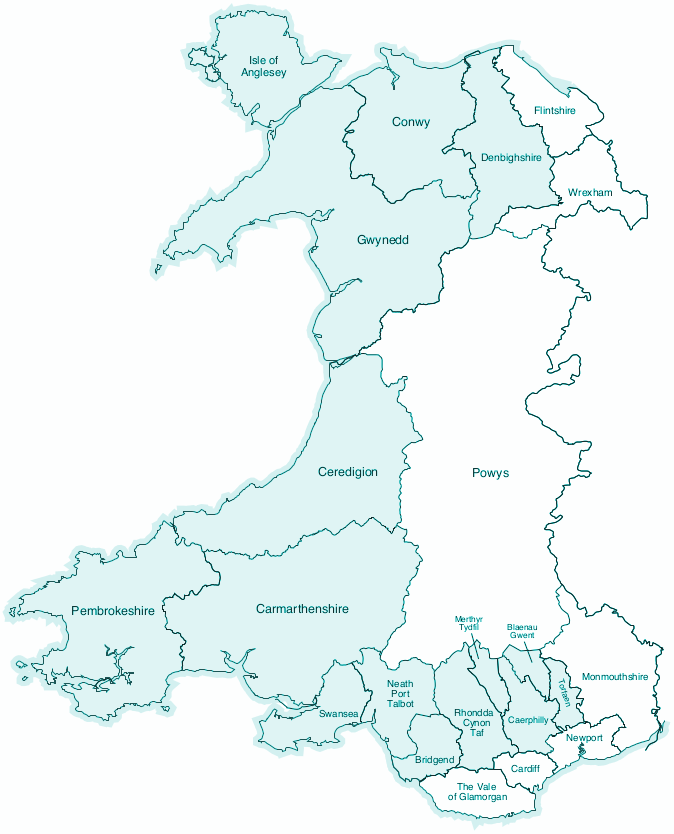
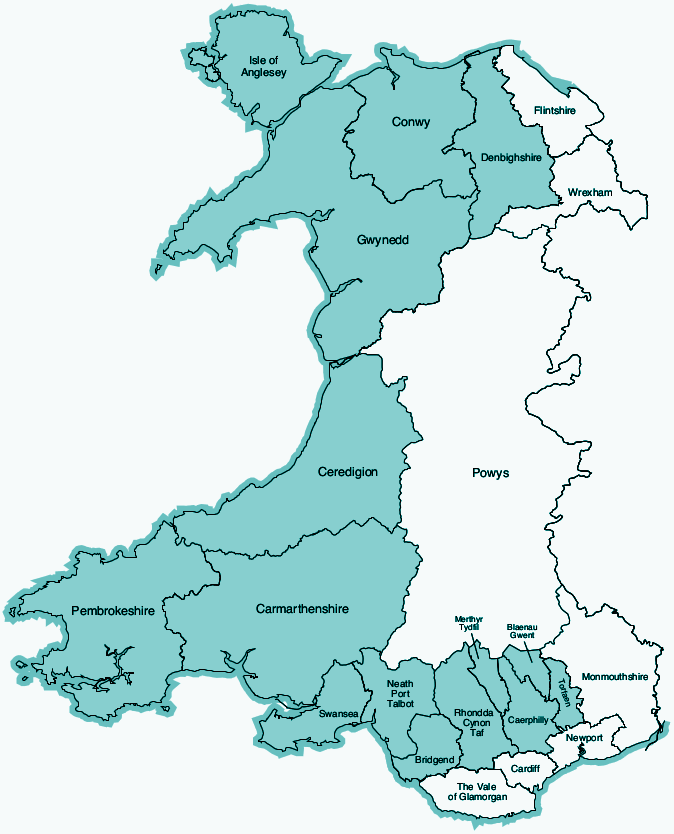
more changes

diff --git a/wipsce2015.tex b/wipsce2015.tex
@@ -24,18 +24,21 @@
 \title{Technocamps: \\[1ex] Advancing Computer Science Education in Wales}
 
 %\title{Technocamps: A Decade of Supporting\\Computer Science Education in Wales}
+% This title is so good I want to reserve it for ToCSE/SIGCSE
 
 \numberofauthors{2}
 \author{
 % 1st. author
 \alignauthor
 Tom Crick\\
+\affaddr{Chair of CAS Wales}\\[1ex]
 \affaddr{Department of Computing}\\
 \affaddr{Cardiff Metropolitan University, UK}\\
 \affaddr{tcrick@cardiffmet.ac.uk}
 % 2nd. author
 \alignauthor
 Faron Moller\\
+\affaddr{Director of Technocamps}\\[1ex]
 \affaddr{Department of Computer Science}\\
 \affaddr{Swansea University, UK}\\
 \affaddr{F.G.Moller@swansea.ac.uk}\\
@@ -308,6 +311,8 @@ have engaged with Technocamps through Workshops,
 and that more than a quarter of the secondary schools
 in the region have established Technoclubs.
 
+\break
+
 % taken from TOCE paper, can be adapted to Welsh focus
 \section{Education in the UK}\label{sec:schools}
 
@@ -330,13 +335,8 @@ under the direction of the Department for Education and Skills.
 % systems in UK, especially England and Scotland (imp: Curric. for
 % Excellence, plus Computing Science), then focus on Wales...
 
-Wales is a small nation to the west of England (see Figure~\ref{fig:UK}).
-\begin{figure}
-  \centering
-  \includegraphics[width=0.5\columnwidth]{images/UK.png}
-  \caption{Map of England and Wales}
-  \label{fig:UK}
-\end{figure}
+Wales is a small nation to the west of England
+(see Figure~\ref{fig:wales}(b)).
 It has an ancient culture and a thriving language.
 Its south coast became pre-eminent in coal mining and heavy industry;
 however, it is mostly rural and suffers from rural poverty,
@@ -348,13 +348,14 @@ suffer from the perils of isolation.
 Apart from the south east corner (including its capital Cardiff)
 and the regions bordering England, the whole country is
 formally designated within the European Union (EU) as so-called
-``convergence area'' (see Figure~\ref{fig:wales}),
-\begin{figure}
-  \centering
-  \includegraphics[width=0.5\columnwidth]{images/wales.png}
-  \caption{Convergence region of Wales, encompassing 15 out of 22 local councils}
-  \label{fig:wales}
-\end{figure}
+``convergence area''
+(see Figure~\ref{fig:wales}(a)),
+%\begin{figure}
+%  \centering
+%  \includegraphics[width=0.5\columnwidth]{images/wales.png}
+%  \caption{Convergence region of Wales, encompassing 15 out of 22 local councils}
+%  \label{fig:wales}
+%\end{figure}
 meaning its per-capita gross domestic product (GDP)
 is less than 75\% of the EU average.
 
@@ -374,6 +375,24 @@ used in England (See Figure~\ref{fig:key-stages}),
   \caption{Key Stages in the English and Welsh education system}
   \label{fig:key-stages}
 \end{figure}
+\begin{figure*}
+\centering
+\begin{picture}(445,250)(-5,-55)
+%\put(-5,-55){\framebox(445,250){}}
+\put(10,0){\includegraphics[width=0.31\textwidth]{images/wales.png}}
+\put(275,0){\includegraphics[width=0.325\textwidth]{images/UK.png}}
+\put(165,96){\line(6,-1){128}}
+\put(10,1){\dashbox(155,190){}}
+\put(293,45){\dashbox(58,68){}}
+\put(90,-35){\makebox(0,0){\begin{tabular}[t]{@{\hspace{1em}}r@{ }l}
+(a) &~Convergence area of Wales, which \\ & encompasses 15 (out
+of 22) western \\ & councils that do \emph{not} border England
+\end{tabular}}}
+\put(360,-20){\makebox(0,0){(b)~Wales and England}}
+\end{picture}
+\caption{Maps of Wales and England}
+\label{fig:wales}
+\end{figure*}
 the Welsh Government embarked on a 10-year revolutionary plan
 including
 \begin{itemize}
@@ -467,6 +486,7 @@ the figures forecast for 2013-2014 show
 %
 % update end of this section so that it leads into the Donaldson review...
 
+\break
 \subsection{2013 ICT Curriculum Review}
 
 % \textbf{Tom -- this is your story~\cite{welshictreview:2013};
@@ -876,6 +896,200 @@ An 18-month \pounds 370,000 project under the Welsh Government's Learning in Dig
 A three-year \pounds 120,000 grant to support our Technoteach and
 Playground Computing programmes.
 \end{description}
+
+\subsection{Wales Divided}
+
+Due to its EU funding restrictions during 2011-2014,
+Technocamps was prohibited from providing any resourced support
+(specifically, manpower for Workshops, teacher sessions,
+Technoclub support, etc)
+to schools outside of the convergence area -- namely,
+the eastern region of Wales, including its capital city Cardiff,
+bordering England
+(see Figure~\ref{fig:wales}(a)).
+%\begin{figure*}
+%\centering
+%\begin{picture}(445,250)(-5,-55)
+%%\put(-5,-55){\framebox(445,250){}}
+%\put(10,0){\includegraphics[width=0.33\textwidth]{images/wales.png}}
+%\put(275,0){\includegraphics[width=0.35\textwidth]{images/UK.png}}
+%\put(165,96){\line(6,-1){128}}
+%\put(10,1){\dashbox(155,190){}}
+%\put(293,45){\dashbox(58,68){}}
+%\put(90,-35){\makebox(0,0){\begin{tabular}[t]{@{\hspace{1em}}l}
+%Convergence Area of Wales, which \\ encompasses 15 (out
+%of 22) western \\ councils that do \emph{not} border England
+%\end{tabular}}}
+%\put(360,-20){\makebox(0,0){Wales and England}}
+%\end{picture}
+%\caption{Maps of Wales and England}
+%\label{fig:wales}
+%\end{figure*}
+Whilst truly unfortunate,
+a fortuitous side effect of this restriction was that it allows for
+a true assessment of the real impact of Technocamps,
+as the country was invariably divided into two halves:
+West Wales received the full Technocamps experience,
+whilst East Wales (including its capital Cardiff) did not.
+
+Cardiff is the base of the Welsh branch of Computing At School (CAS),
+a teacher-led organisation in England which has successfully
+lobbied for curriculum change in England; and
+Technocamps supported the Chair of CAS Wales
+in promoting
+the teacher-led initiatives promoted by CAS.
+In particular, in 2010 we jointly sent out an information pack
+to every secondary school in Wales.
+Technocamps produced all of the packs and
+posted these out to all of the schools; CAS Wales provided
+the postal costs for sending the information packs to the schools
+outside of the convergence area of Wales.
+(CAS Wales has a budget of \pounds100,000 from Welsh Government
+to advance the CAS model of teacher-led activity across Wales,
+supplementing the several millions of pounds granted
+to CAS by the English Government for this activity across England.)
+The information pack included full details of the extensive resources
+being supplied on the Technocamps and CAS websites,
+which schools and teachers could freely download and use,
+in particular in support of extra-curricular computing clubs.
+
+Despite the financial support CAS Wales receives, and the support it
+offers teachers in Wales, the CAS model has never proven successful
+in Wales. It is noticeable, for example, that whilst the Heads of
+CAS England, CAS Scotland and CAS Northern Ireland are naturally all
+teachers, only the head of CAS Wales, Dr Tom Crick, stands out:
+he is not a teacher, but rather a University academic.
+Equally, whilst CAS hubs across the UK are run by schools
+for schools, abiding to the principle of the teacher-led initiative,
+virtually all of the CAS hubs across Wales are led by academics
+in University-based Technocamps Hubs
+(Dr Tom Crick at Cardiff Metropolitan University,
+Dr Helen Phillips at Cardiff University,
+Prof Andrew Ware at University of South Wales,
+Prof Vic Grout at Glynd\^{w}r University,
+Prof Roger Boyle at Aberystwyth University,
+and Dr Dave Perkins at Bangor University).
+Teachers have generally not been self-motivated in Wales
+to promote the CAS agenda.
+
+An independent Review~\cite{Wavehill:2015}
+of Technocamps activity in the convergence region of Wales
+carried out for Welsh Government estimates that
+5\% of Welsh secondary school-aged youths (ie, aged 11-19)
+in the convergence area of Wales
+have engaged with Technocamps through Workshops,
+and that
+more than a quarter of the secondary schools
+in the region have established Technoclubs.
+Furthermore, the new GCSE Computer Science curriculum
+-- which remains optional for schools in Wales --
+has now been adopted by a large percentage of these schools,
+whilst schools outside of the convergence area
+(and outside the reach of Technocamps) continue
+to deliver the ICT curriculum.
+
+Although it could not operate within
+the non-convergence area of Wales,
+Technocamps promoted all of its extensive on-line resources 
+which are freely available to schools outside the convergence area of Wales,
+and supported the activities of CAS Wales to develop the CAS model
+of teacher-led in-school activities throughout Wales.
+However, despite the efforts of CAS Wales,
+there is scarce evidence of even a single active school-based
+computing club that isn't inside the convergence area and
+established due directly to Technocamps Workshops and follow-up engagement.
+
+In support of this claim, consider the following.
+The Annual Technocamps Robotics Competition was open to all Schools
+across all of Wales, promoted across all of Wales
+through Technocamps and CAS Wales channels, and even held
+on the outskirts of Cardiff (in Treforest) in 2013.
+However, every single one of the 43 teams entered in the 2013
+competition held near Cardiff
+travelled in from a convergence-area Technoclub formed on the back
+of Technocamps Workshops and follow-up engagements with Technocamps.
+
+This provides indisputable proof that the Technocamps model
+of intense direct engagement through campus-based Workshops,
+in conjunction with Teacher CPD and support, is crucial in order for success.
+The lack of confidence and isolation felt by the teacher community
+in Wales means that computing clubs have only arisen
+-- and will continue to only arise --
+through direct involvement of and engagement with Technocamps.
+
+\subsection{Government Recognition}
+
+The impact described above that
+Technocamps has had on changing perceptions in schools
+has translated into impact on Welsh (and UK) Government thinking
+within different legislative Departments.
+We can cite a variety of points which evidence this fact.
+
+\begin{itemize}
+
+\item
+In his Keynote Speech at the 2012 Annual Technocamps Teachers' Conference,
+the Welsh Government's Minister for Education and Skills
+publicly acknowledged the importance of computer science education;
+noted that he is a key supporter of Technocamps;
+and expressed understanding of the wider educational and
+socio-economic impact that the government can make with reform in Wales.
+He took the opportunity that this Keynote Speech afforded him
+to announce a variety of funded initiatives to
+support Technocamps' aims of embedding computing within
+the school curriculum at all levels.
+
+\item
+One of the initiatives the Minister announced in his Speech
+was the creation of a government panel
+-- the National Digital Learning Council (NDLC) --
+which would work on scoping the route forward for
+his Department; and in his Speech he appointed
+the Director of Technocamps as an Expert Advisor
+to this panel.
+
+\item
+The Minister also commissioned a Review of the ICT Curriculum,
+and appointed the Director of Technocamps onto the Review Panel.
+
+\item
+The Director of Technocamps was also appointed
+to the Government's
+Cross Party Group on Science and Technology.
+
+\item
+Technocamps has been recognised by the UK Government
+as the driving force for computing education in Wales,
+through an invitation to appear at the Houses of Parliament
+on 29~October 2014,
+hosted by the Chair of the Science and Technology Select Committee.
+
+\item
+The impact that Technocamps has had on schools
+in the convergence area of Wales has been recognised
+by the \emph{Department of Education and Skills} which has contracted
+Technocamps to deliver workshops at \textbf{every}
+state-sponsored secondary school throughout
+the whole country between September 2014
+and March 2016 as part of their
+\emph{Learning in Digital Wales} programme.
+
+\item
+The impact that Technocamps has had on teachers has been
+recognised by the \emph{Department of Economy, Science and Transport},
+through the National Science Academy,
+which has contracted Technocamps to deliver its 20-hour Technoteach module
+between April 2015 and March 2018.
+
+\item
+The impact that Technocamps has had on primary schools has also been
+recognised by the \emph{Department of Economy, Science and Transport},
+again through the National Science Academy,
+which has contracted Technocamps to deliver its Playground Computing
+programme between April 2015 and March 2018.
+
+\end{itemize}
+
 
 \section{Conclusions}
 What are the top-line messages???
